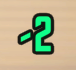
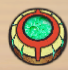
fix: 重构采光连战次数设置

diff --git a/tasks/daily/luxcavation.py b/tasks/daily/luxcavation.py
@@ -4,6 +4,141 @@ from module.automation import auto
 from module.config import cfg
 from module.logger import log
 
+_CONTINUOUS_COMBAT_DEFAULT_COUNT = 1
+_CONTINUOUS_COMBAT_MAX_COUNT = 10
+_CONTINUOUS_COMBAT_SHOW_BOX_ASSET = "luxcavation/thread_continuous_combat_show_box_assets.png"
+_CONTINUOUS_COMBAT_UP_BOX_ASSET = "luxcavation/continuous_combat_up_box_assets.png"
+_THREAD_CONSUME_ASSET = "luxcavation/thread_consume.png"
+_THREAD_CONSUME_THRESHOLD = 0.85
+_THREAD_LEVEL_MULTI_TARGET_THRESHOLD = 0.8
+
+# 坐标偏移均以 1440p 模板为基准，使用时按当前窗口高度缩放。
+_EXP_CONTINUOUS_BOX_X_OFFSET = 300
+_EXP_CONTINUOUS_BOX_Y_OFFSET = -450
+_THREAD_LEVEL_MIN_X = 700
+_THREAD_LEVEL_ROW_GAP = 70
+_THREAD_LEVEL_MIN_ROW_GAP = 20
+
+
+def _get_continuous_combat_up_clicks(combat_count: int) -> int:
+    target_count = max(_CONTINUOUS_COMBAT_DEFAULT_COUNT, min(int(combat_count), _CONTINUOUS_COMBAT_MAX_COUNT))
+    return target_count - _CONTINUOUS_COMBAT_DEFAULT_COUNT
+
+
+def _open_continuous_combat_count_box(log_prefix: str, box_position: tuple[int, int] | None = None) -> bool:
+    if box_position is not None:
+        auto.mouse_click(box_position[0], box_position[1])
+        sleep(0.1)
+        return True
+
+    if not (pos := auto.click_element(
+        _CONTINUOUS_COMBAT_SHOW_BOX_ASSET,
+        threshold=0.85,
+        click=False,
+        model="aggressive",
+    )):
+        log.debug(f"{log_prefix}未找到连续战斗设置入口")
+        return False
+
+    auto.mouse_click(pos[0], pos[1])
+    sleep(0.1)
+    return True
+
+
+def _close_continuous_combat_count_box(log_prefix: str, box_position: tuple[int, int] | None = None) -> None:
+    sleep(0.1)
+    if box_position is not None:
+        auto.mouse_click(box_position[0], box_position[1])
+        sleep(0.1)
+        return
+
+    if auto.take_screenshot() is None:
+        return
+    if pos := auto.click_element(
+        _CONTINUOUS_COMBAT_SHOW_BOX_ASSET,
+        threshold=0.85,
+        click=False,
+        model="aggressive",
+    ):
+        auto.mouse_click(pos[0], pos[1])
+        sleep(0.1)
+    else:
+        log.debug(f"{log_prefix}未找到连续战斗设置入口，无法收起次数面板")
+
+
+def _set_continuous_combat_count(
+    combat_count: int,
+    log_prefix: str,
+    box_position: tuple[int, int] | None = None,
+) -> bool:
+    up_clicks = _get_continuous_combat_up_clicks(combat_count)
+    if up_clicks <= 0:
+        return True
+
+    up_button = None
+    for attempt in range(2):
+        sleep(0.4 if attempt == 0 else 0.2)
+        if auto.take_screenshot() is None:
+            return False
+        up_button = auto.click_element(
+            _CONTINUOUS_COMBAT_UP_BOX_ASSET,
+            threshold=0.85,
+            click=False,
+            model="aggressive",
+        )
+        if up_button:
+            break
+
+    if not up_button:
+        log.debug(f"{log_prefix}未找到连续战斗增加按钮")
+        return False
+
+    for _ in range(up_clicks):
+        auto.mouse_click(up_button[0], up_button[1])
+        sleep(0.1)
+
+    log.debug(f"{log_prefix}连续战斗次数已设置为 {up_clicks + _CONTINUOUS_COMBAT_DEFAULT_COUNT} 次")
+    _close_continuous_combat_count_box(log_prefix, box_position)
+    return True
+
+
+def _prepare_continuous_combat_count(
+    combat_count: int,
+    log_prefix: str,
+    box_position: tuple[int, int] | None = None,
+) -> bool:
+    if combat_count <= _CONTINUOUS_COMBAT_DEFAULT_COUNT:
+        return True
+    return _open_continuous_combat_count_box(log_prefix, box_position) and _set_continuous_combat_count(
+        combat_count,
+        log_prefix,
+        box_position,
+    )
+
+
+def _get_exp_continuous_combat_box_position(level: tuple[int, int], scale: float) -> tuple[int, int]:
+    return (
+        int(level[0] + _EXP_CONTINUOUS_BOX_X_OFFSET * scale),
+        int(level[1] + _EXP_CONTINUOUS_BOX_Y_OFFSET * scale),
+    )
+
+
+def _filter_thread_level_targets(level: list[tuple[int, int]] | None, scale: float) -> list[tuple[int, int]]:
+    if not level:
+        return []
+
+    min_x = _THREAD_LEVEL_MIN_X * scale
+    min_row_gap = max(_THREAD_LEVEL_MIN_ROW_GAP, int(_THREAD_LEVEL_ROW_GAP * scale))
+    selected = []
+    for x, y in level:
+        point = (int(x), int(y))
+        if point[0] < min_x:
+            continue
+        if any(abs(point[1] - kept[1]) < min_row_gap for kept in selected):
+            continue
+        selected.append(point)
+    return sorted(selected, key=lambda point: point[1], reverse=True)
+
 
 def EXP_luxcavation(combat_count: int = 1):
     loop_count = 30
@@ -25,15 +160,17 @@ def EXP_luxcavation(combat_count: int = 1):
             if level := auto.find_element("luxcavation/exp_enter.png", find_type="image_with_multiple_targets"):
                 level = sorted(level, key=lambda x: x[0], reverse=True)
                 scale = cfg.set_win_size / 1440
-                for lv in level:
-                    if combat_count > 1:
-                        auto.mouse_click(lv[0] + 300 * scale, lv[1] - 450 * scale)
-                        sleep(0.1)
-                        if slide_bar := auto.find_element("luxcavation/continuous_combat.png", take_screenshot=True):
-                            auto.mouse_drag(slide_bar[0], slide_bar[1], dx=30 * scale * (combat_count - 1))
+                log.debug(f"经验本检测到 {len(level)} 个关卡入口: {level}")
+                for lv_idx, lv in enumerate(level):
+                    if combat_count > _CONTINUOUS_COMBAT_DEFAULT_COUNT:
+                        box_position = _get_exp_continuous_combat_box_position(lv, scale)
+                        if not _prepare_continuous_combat_count(combat_count, "经验本", box_position):
+                            log.debug(f"经验本第 {lv_idx + 1} 关连续战斗设置失败，降级尝试下一关")
+                            continue
 
                     select_team = False
-                    for _ in range(3):
+                    for retry in range(3):
+                        log.debug(f"经验本尝试第 {lv_idx + 1} 关 (x={lv[0]}, y={lv[1]}), 第 {retry + 1}/3 次")
                         auto.mouse_click(lv[0], lv[1])
                         sleep(1)
                         auto.mouse_to_blank()
@@ -43,12 +180,14 @@ def EXP_luxcavation(combat_count: int = 1):
                                 model="clam",
                                 take_screenshot=True,
                             ):
+                                log.debug(f"经验本第 {lv_idx + 1} 关点击成功，已进入编队界面")
                                 select_team = True
                                 break
                         if select_team:
                             break
                     if select_team:
                         break
+                    log.debug(f"经验本第 {lv_idx + 1} 关 3 次尝试均未进入编队，降级尝试下一关")
         if auto.click_element("home/luxcavation_assets.png"):
             continue
         if auto.find_element("home/inferno_bus_assets.png") and not auto.find_element("home/luxcavation_assets.png"):
@@ -81,6 +220,7 @@ def EXP_luxcavation(combat_count: int = 1):
 
 def thread_luxcavation(combat_count: int = 1):
     loop_count = 30
+    continuous_combat_ready = combat_count <= _CONTINUOUS_COMBAT_DEFAULT_COUNT
     auto.model = "clam"
     while True:
         # 自动截图
@@ -92,12 +232,22 @@ def thread_luxcavation(combat_count: int = 1):
             auto.find_element("home/first_prompt_assets.png", model="clam")
             and auto.find_element("home/back_assets.png", model="normal")
             and not auto.find_element("luxcavation/thread_enter_assets.png", threshold=0.78)
-            and not auto.find_element("luxcavation/thread_consume.png", threshold=0.85)
+            and not auto.find_element(_THREAD_CONSUME_ASSET, threshold=_THREAD_CONSUME_THRESHOLD)
         ):
             auto.key_press("esc")
             continue
-        if auto.click_element("luxcavation/thread_enter_assets.png", threshold=0.78):
-            if pos := auto.find_element("luxcavation/thread_consume.png", threshold=0.85, take_screenshot=True):
+        if thread_enter := auto.click_element("luxcavation/thread_enter_assets.png", threshold=0.78, click=False):
+            # 纽本连战次数框位于外层纺锤卡片，需在进入关卡列表前设置。
+            if not continuous_combat_ready:
+                if not _prepare_continuous_combat_count(combat_count, "纽本"):
+                    log.debug("纽本连续战斗设置失败，重新检测")
+                    continue
+                continuous_combat_ready = True
+            auto.mouse_click(thread_enter[0], thread_enter[1])
+            sleep(0.5)
+            if auto.take_screenshot() is None:
+                continue
+            if pos := auto.find_element(_THREAD_CONSUME_ASSET, threshold=_THREAD_CONSUME_THRESHOLD):
                 if scroll_bar := auto.find_element("luxcavation/thread_scroll_bar.png"):
                     auto.mouse_drag_down(scroll_bar[0], scroll_bar[1], reverse=2)
                 else:
@@ -105,27 +255,19 @@ def thread_luxcavation(combat_count: int = 1):
                     auto.mouse_drag_down(pos[0], pos[1], reverse=-2)
 
                 level = auto.find_element(
-                    "luxcavation/thread_consume.png",
+                    _THREAD_CONSUME_ASSET,
                     find_type="image_with_multiple_targets",
+                    threshold=_THREAD_LEVEL_MULTI_TARGET_THRESHOLD,
                     take_screenshot=True,
                 )
                 scale = cfg.set_win_size / 1440
+                level = _filter_thread_level_targets(level, scale)
                 if level:
-                    level = [(x, y) for x, y in level if x >= 700 * scale]
-                if level:
-                    level = sorted(level, key=lambda y: y[1], reverse=True)
-                    if combat_count > 1 and auto.click_element(
-                        "luxcavation/thread_continuous_combat_show_box_assets.png"
-                    ):
-                        scale = cfg.set_win_size / 1440
-                        sleep(0.1)
-                        if slide_bar := auto.find_element(
-                            "luxcavation/continuous_combat.png", threshold=0.78, take_screenshot=True
-                        ):
-                            auto.mouse_drag(slide_bar[0], slide_bar[1], dx=32 * scale * (combat_count - 1))
-                    for lv in level:
+                    log.debug(f"纽本检测到 {len(level)} 个关卡入口: {level}")
+                    for lv_idx, lv in enumerate(level):
                         select_team = False
-                        for _ in range(3):
+                        for retry in range(3):
+                            log.debug(f"纽本尝试第 {lv_idx + 1} 关 (x={lv[0]}, y={lv[1]}), 第 {retry + 1}/3 次")
                             auto.mouse_click(lv[0], lv[1])
                             sleep(1)
                             auto.mouse_to_blank()
@@ -137,12 +279,14 @@ def thread_luxcavation(combat_count: int = 1):
                                     model="clam",
                                     take_screenshot=True,
                                 ):
+                                    log.debug(f"纽本第 {lv_idx + 1} 关点击成功，已进入编队界面")
                                     select_team = True
                                     break
                             if select_team:
                                 break
                         if select_team:
                             break
+                        log.debug(f"纽本第 {lv_idx + 1} 关 3 次尝试均未进入编队，降级尝试下一关")
                 else:
                     # 处理下方所有关卡未解锁的情况
                     level = None
@@ -154,12 +298,12 @@ def thread_luxcavation(combat_count: int = 1):
                     while not level:
                         auto.mouse_drag(x, y, drag_time=0.5, dy=dy)
                         level = auto.find_element(
-                            "luxcavation/thread_consume.png",
+                            _THREAD_CONSUME_ASSET,
                             find_type="image_with_multiple_targets",
+                            threshold=_THREAD_LEVEL_MULTI_TARGET_THRESHOLD,
                             take_screenshot=True,
                         )
-                        if level:
-                            level = [(x, y) for x, y in level if x >= 700 * scale]
+                        level = _filter_thread_level_targets(level, scale)
                         if level:
                             break
                         slide_times += 1
@@ -168,25 +312,27 @@ def thread_luxcavation(combat_count: int = 1):
                     if not level:
                         continue
 
-                    level = sorted(level, key=lambda y: y[1], reverse=True)
-                    if combat_count > 1 and auto.click_element(
-                        "luxcavation/thread_continuous_combat_show_box_assets.png"
-                    ):
-                        scale = cfg.set_win_size / 1440
-                        sleep(0.1)
-                        if slide_bar := auto.find_element(
-                            "luxcavation/continuous_combat.png", threshold=0.78, take_screenshot=True
-                        ):
-                            auto.mouse_drag(slide_bar[0], slide_bar[1], dx=32 * scale * (combat_count - 1))
-                    for lv in level:
-                        auto.mouse_click(lv[0], lv[1])
-                        sleep(1)
-                        auto.mouse_to_blank()
-                        if auto.find_element("teams/identify_assets.png", take_screenshot=True):
+                    log.debug(f"纽本(滑动后)检测到 {len(level)} 个关卡入口: {level}")
+                    for lv_idx, lv in enumerate(level):
+                        success = False
+                        for retry in range(3):
+                            log.debug(f"纽本(滑动后)尝试第 {lv_idx + 1} 关 (x={lv[0]}, y={lv[1]}), 第 {retry + 1}/3 次")
+                            auto.mouse_click(lv[0], lv[1])
+                            sleep(1)
+                            auto.mouse_to_blank()
+                            if auto.find_element("teams/identify_assets.png", take_screenshot=True):
+                                log.debug(f"纽本(滑动后)第 {lv_idx + 1} 关点击成功，已进入编队界面")
+                                success = True
+                                break
+                        if success:
                             break
+                        log.debug(f"纽本(滑动后)第 {lv_idx + 1} 关 3 次尝试均未进入编队，降级尝试下一关")
 
+            else:
+                log.debug("纽本未找到关卡消耗锚点")
             continue
         if auto.click_element("luxcavation/thread_assets.png"):
+            sleep(0.5)
             continue
         if auto.click_element("home/luxcavation_assets.png"):
             continue